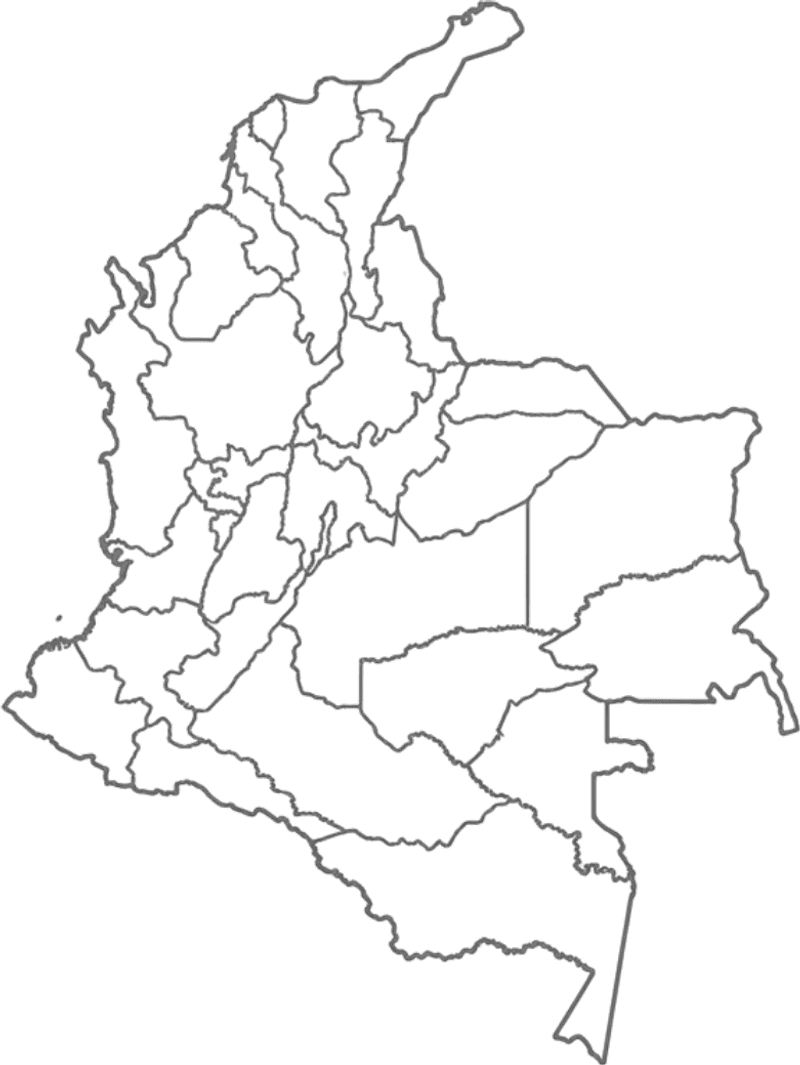
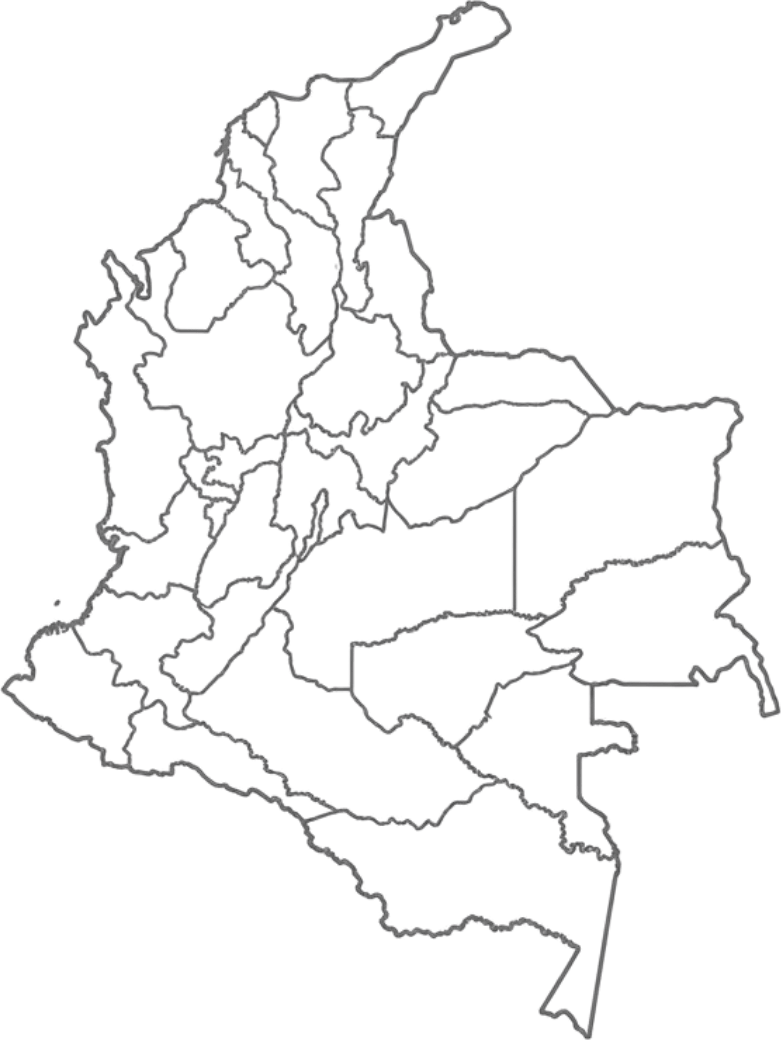
Segundo ajuste de diseño: fondo más pequeño y nítido, textos, KPI y dona
- Mapa de fondo un 30 % más pequeño, en PNG de 64 colores a tamaño nativo.
- Textos nuevos en las tarjetas de vehículos y normativa del inicio.
- «Descargar CSV» sin el conteo de proyectos o líneas.
- Dona de tecnología sin pestañas (potencia [MW]); spec 006 RF-07 y CA-07.1 actualizados.
- KPI: «Proyectos identificados», «Potencia total proyectada», «Capacidad energética
  total proyectada»; tarjetas de «Instalado» en dos columnas.

diff --git a/web/e2e/006-graficas.spec.ts b/web/e2e/006-graficas.spec.ts
@@ -72,7 +72,8 @@ const ESTADO = "Capacidad por estado";
 const EVOL = "Evolución por año de FPO";
 const TEC = "Tecnología";
 const pestana = (page: Page, t: string, nombre: string) => tarjeta(page, t).getByRole("tab", { name: nombre, exact: true });
-const panel = (page: Page, t: string) => tarjeta(page, t).getByRole("tabpanel");
+// La dona de tecnología no tiene pestañas (ajuste del 2026-10-24): su panel no es «tabpanel».
+const panel = (page: Page, t: string) => tarjeta(page, t).locator('[id$="-panel"]');
 const tablaDe = (page: Page, t: string) => panel(page, t).getByRole("table");
 const dibujo = (page: Page, t: string) => panel(page, t).locator("svg").first();
 
@@ -132,9 +133,9 @@ async function kpi(page: Page, nombre: string) {
   return (await page.getByRole("group", { name: nombre, exact: true }).innerText()).replace(/\s+/g, " ").trim();
 }
 async function kpis(page: Page) {
-  const k = await kpi(page, "Proyectos según filtros");
-  const mw = await kpi(page, "Potencia según filtros [MW] (todos los estados)");
-  const mwh = await kpi(page, "Energía según filtros [MWh] (todos los estados)");
+  const k = await kpi(page, "Proyectos identificados");
+  const mw = await kpi(page, "Potencia total proyectada");
+  const mwh = await kpi(page, "Capacidad energética total proyectada");
   const ult = (s: string, re: RegExp) => num((s.match(re) ?? ["0"]).pop()!);
   return {
     proyectos: ult(k, /\d[\d.]*/g),
@@ -251,7 +252,7 @@ test.describe("006 · Gráficas (datos)", () => {
     test.info().annotations.push({ type: "kpi", description: JSON.stringify(k) });
 
     const sumaCol = async (t: string, pest: string) => {
-      await pestana(page, t, pest).click();
+      if (t !== TEC) await pestana(page, t, pest).click(); // la dona no tiene pestañas
       await verTabla(page, t);
       await expect(tablaDe(page, t).getByRole("columnheader", { name: pest })).toBeVisible();
       const { filas } = await leerTabla(page, t);
@@ -260,12 +261,11 @@ test.describe("006 · Gráficas (datos)", () => {
     expect(await sumaCol(ESTADO, "Potencia [MW]"), "barras MW = KPI").toBeCloseTo(k.mw, 1);
     expect(await sumaCol(ESTADO, "Energía [MWh]"), "barras MWh = KPI").toBeCloseTo(k.mwh, 1);
     expect(await sumaCol(TEC, "Potencia [MW]"), "dona MW = KPI").toBeCloseTo(k.mw, 1);
-    expect(await sumaCol(TEC, "Energía [MWh]"), "dona MWh = KPI").toBeCloseTo(k.mwh, 1);
     expect(k.mw).toBeCloseTo(30, 1);
     expect(k.mwh).toBeCloseTo(52, 1);
 
     for (const t of [ESTADO, EVOL, TEC]) {
-      await pestana(page, t, "Potencia [MW]").click();
+      if (t !== TEC) await pestana(page, t, "Potencia [MW]").click();
       await verTabla(page, t);
       const ahora = JSON.stringify(await leerTabla(page, t));
       expect(ahora, `«${t}» cambió con el filtro`).not.toBe(sinFiltro[t]);
@@ -415,27 +415,20 @@ test.describe("006 · Gráficas (datos)", () => {
     await expect(tarjeta(page, EVOL).getByText(/sin año de FPO/)).toHaveCount(0);
   });
 
-  test("E2E-09 · CA-07.1: dona con Li-ion 100 % en cada pestaña; en Proyectos el centro coincide con el KPI", async ({ page }) => {
+  test("E2E-09 · CA-07.1: dona sin pestañas, con Li-ion 100 %; el centro coincide con el KPI de potencia", async ({ page }) => {
     soloEscritorio();
     const ps = await aprobados();
     expect(new Set(ps.map((p) => p.tecnologia))).toEqual(new Set(["Li-ion"]));
     for (const q of ["", qDepto]) {
       await abrirMapa(page, q);
       const k = await kpis(page);
-      const esperadoCentro: Record<string, RegExp> = {
-        "Potencia [MW]": new RegExp(`^${fmt1(k.mw).replace(".", "\\.")} MW$`),
-        "Energía [MWh]": new RegExp(`^${fmt1(k.mwh).replace(".", "\\.")} MWh$`),
-        Proyectos: new RegExp(`^${k.proyectos} proyectos?$`),
-      };
-      for (const pest of ["Potencia [MW]", "Energía [MWh]", "Proyectos"]) {
-        await pestana(page, TEC, pest).click();
-        await expect(pestana(page, TEC, pest)).toHaveAttribute("aria-selected", "true");
-        const leyenda = tarjeta(page, TEC).getByRole("list", { name: "Tecnologías" });
-        await expect(leyenda.getByRole("listitem")).toHaveText([/^Li-ion\s*100 %$/]);
-        const centro = (await panel(page, TEC).getByRole("paragraph").allInnerTexts()).map((s) => s.trim());
-        test.info().annotations.push({ type: `centro${q ? "-depto" : ""}-${pest}`, description: JSON.stringify(centro) });
-        expect(centro.some((c) => esperadoCentro[pest].test(c)), `centro de ${pest}: ${JSON.stringify(centro)}`).toBe(true);
-      }
+      await expect(tarjeta(page, TEC).getByRole("tab")).toHaveCount(0);
+      const leyenda = tarjeta(page, TEC).getByRole("list", { name: "Tecnologías" });
+      await expect(leyenda.getByRole("listitem")).toHaveText([/^Li-ion\s*100 %$/]);
+      const centro = (await panel(page, TEC).getByRole("paragraph").allInnerTexts()).map((s) => s.trim());
+      test.info().annotations.push({ type: `centro${q ? "-depto" : ""}`, description: JSON.stringify(centro) });
+      const esperado = new RegExp(`^${fmt1(k.mw).replace(".", "\\.")} MW$`);
+      expect(centro.some((c) => esperado.test(c)), `centro: ${JSON.stringify(centro)}`).toBe(true);
     }
   });
 
@@ -469,8 +462,7 @@ test.describe("006 · Gráficas (datos)", () => {
       for (const f of filas) for (const v of f.slice(1)) expect(v).toMatch(/^\d{1,3}(\.\d{3})*,\d$/);
     }
     // Tecnología: mismo total que el centro y mismo % que la leyenda.
-    for (const [pest, unidad] of [["Potencia [MW]", "[MW]"], ["Energía [MWh]", "[MWh]"], ["Proyectos", "Proyectos"]] as const) {
-      await pestana(page, TEC, pest).click();
+    for (const [pest, unidad] of [["Potencia [MW]", "[MW]"]] as const) {
       await verGrafica(page, TEC);
       const centro = (await panel(page, TEC).getByRole("paragraph").allInnerTexts()).join(" ");
       const leyenda = await tarjeta(page, TEC).getByRole("list", { name: "Tecnologías" }).getByRole("listitem").allInnerTexts();
@@ -488,7 +480,7 @@ test.describe("006 · Gráficas (datos)", () => {
     soloEscritorio();
     // Meta solo tiene un proyecto Anunciado: Meta + Inactivo no tiene resultados (se aplica por URL).
     await abrirMapa(page, `?departamento=Meta&estado=Inactivo`);
-    await expect.poll(() => kpi(page, "Proyectos según filtros"), { timeout: 15_000 }).toMatch(/(^|\s)0$/);
+    await expect.poll(() => kpi(page, "Proyectos identificados"), { timeout: 15_000 }).toMatch(/(^|\s)0$/);
     for (const t of [ESTADO, EVOL, TEC]) {
       await expect(tarjeta(page, t).getByText("Sin datos para estos filtros", { exact: true }), t).toBeVisible();
       await expect(panel(page, t).locator("svg"), `${t} sin dibujo`).toHaveCount(0);

diff --git a/web/e2e/002-implementacion.spec.ts b/web/e2e/002-implementacion.spec.ts
@@ -688,7 +688,7 @@ test.describe("002 · Implementación en el país (datos)", () => {
     const enMapa = await nombresPuntos(page);
     const enTabla = await nombresFilas(page, ap.map((p) => p.nombre));
     await expect(filas(page)).toHaveCount(esperados.length);
-    const kpi = await textoKpi(page, "Proyectos según filtros");
+    const kpi = await textoKpi(page, "Proyectos identificados");
     const csv = registrosCsv(await descargarCsv(page)).datos.map((r) => r[0]).sort();
     test.info().annotations.push({ type: "comparacion", description: JSON.stringify({ enMapa, enTabla, kpi, csv }) });
     expect(enMapa).toEqual(esperados);
@@ -755,16 +755,16 @@ test.describe("002 · Implementación en el país (datos)", () => {
     await expect(mwhInst).toContainText(`${fmt1(suma(op, "capacidad_maxima_mwh"))} MWh`);
     const antes = [await textoKpi(page, "Potencia instalada [MW]"), await textoKpi(page, "Energía instalada [MWh]")];
     await marcar(page, "Estado", "Anunciado");
-    await expect(page.getByRole("group", { name: "Proyectos según filtros" })).toContainText(String(anun.length));
-    await expect(page.getByRole("group", { name: "Potencia según filtros [MW] (todos los estados)" })).toContainText(`${fmt1(suma(anun, "potencia_nominal_mw"))} MW`);
-    await expect(page.getByRole("group", { name: "Energía según filtros [MWh] (todos los estados)" })).toContainText(`${fmt1(suma(anun, "capacidad_maxima_mwh"))} MWh`);
+    await expect(page.getByRole("group", { name: "Proyectos identificados" })).toContainText(String(anun.length));
+    await expect(page.getByRole("group", { name: "Potencia total proyectada" })).toContainText(`${fmt1(suma(anun, "potencia_nominal_mw"))} MW`);
+    await expect(page.getByRole("group", { name: "Capacidad energética total proyectada" })).toContainText(`${fmt1(suma(anun, "capacidad_maxima_mwh"))} MWh`);
     await expect(page.getByRole("region", { name: "Según filtros (todos los estados)" })).toBeVisible();
     expect([await textoKpi(page, "Potencia instalada [MW]"), await textoKpi(page, "Energía instalada [MWh]")]).toEqual(antes);
     // MW y MWh en tarjetas distintas.
-    for (const g of ["Potencia instalada [MW]", "Potencia según filtros [MW] (todos los estados)"]) {
+    for (const g of ["Potencia instalada [MW]", "Potencia total proyectada"]) {
       expect(await textoKpi(page, g)).not.toMatch(/MWh/);
     }
-    for (const g of ["Energía instalada [MWh]", "Energía según filtros [MWh] (todos los estados)"]) {
+    for (const g of ["Energía instalada [MWh]", "Capacidad energética total proyectada"]) {
       expect(await textoKpi(page, g)).not.toMatch(/MW(?!h)/);
     }
   });
@@ -782,9 +782,9 @@ test.describe("002 · Implementación en el país (datos)", () => {
     await expect(page.getByText("Ningún proyecto cumple estos filtros")).toBeVisible();
     await expect(puntos(page)).toHaveCount(0);
     await expect(filas(page).filter({ hasText: PREFIJO })).toHaveCount(0);
-    expect(await textoKpi(page, "Proyectos según filtros")).toMatch(/text: "?0"?$/);
-    expect(await textoKpi(page, "Potencia según filtros [MW] (todos los estados)")).toMatch(/\b0(,0)? MW\b/);
-    expect(await textoKpi(page, "Energía según filtros [MWh] (todos los estados)")).toMatch(/\b0(,0)? MWh\b/);
+    expect(await textoKpi(page, "Proyectos identificados")).toMatch(/text: "?0"?$/);
+    expect(await textoKpi(page, "Potencia total proyectada")).toMatch(/\b0(,0)? MW\b/);
+    expect(await textoKpi(page, "Capacidad energética total proyectada")).toMatch(/\b0(,0)? MWh\b/);
     // Observación (no bloqueante): ¿se ve el filtro activo «Inactivo»?
     const boton = await botonFiltro(page, "Estado").innerText();
     await abrirFiltro(page, "Estado");

diff --git a/web/src/components/graficas/grafica-tecnologia.tsx b/web/src/components/graficas/grafica-tecnologia.tsx
@@ -1,44 +1,26 @@
-"use client";
-
-// Dona de tecnología (spec 006, RF-07): participación en MW, MWh o número de proyectos. El
-// centro muestra el total de la pestaña activa y la leyenda el porcentaje (aclaración 2).
-import { useState } from "react";
-import { formatoMW, formatoMWh, formatoNumero } from "@/lib/formato";
-import { porTecnologia, type Medida } from "@/lib/graficas-mapa";
+// Dona de tecnología (spec 006, RF-07): participación de cada tecnología en la potencia [MW].
+// Sin pestañas desde el ajuste del 2026-10-24. El centro muestra el total y la leyenda el
+// porcentaje (aclaración 2).
+import { formatoMW, formatoNumero } from "@/lib/formato";
+import { porTecnologia } from "@/lib/graficas-mapa";
 import type { ProyectoMapa } from "@/lib/proyectos-mapa";
 import { cifra } from "./grafica-estados";
 import { Dona } from "./dona";
 import { TarjetaGrafica } from "./tarjeta-grafica";
 
-type IdMedida = Medida | "proyectos";
-const MEDIDAS: { id: IdMedida; texto: string }[] = [
-  { id: "mw", texto: "Potencia [MW]" },
-  { id: "mwh", texto: "Energía [MWh]" },
-  { id: "proyectos", texto: "Proyectos" },
-];
-function total(medida: IdMedida, valor: number) {
-  if (medida === "mw") return formatoMW(valor);
-  if (medida === "mwh") return formatoMWh(valor);
-  return `${valor} ${valor === 1 ? "proyecto" : "proyectos"}`;
-}
-
 export function GraficaTecnologia({ proyectos }: { proyectos: ProyectoMapa[] }) {
-  const [medida, setMedida] = useState<IdMedida>("mw");
-  const { filas, total: suma } = porTecnologia(proyectos, medida);
-  const texto = MEDIDAS.find((m) => m.id === medida)!.texto;
-  const valor = (v: number) => (medida === "proyectos" ? String(v) : cifra(v));
+  const { filas, total } = porTecnologia(proyectos, "mw");
 
   return (
     <TarjetaGrafica
       titulo="Tecnología"
-      pestanas={{ etiqueta: "Medida", opciones: MEDIDAS, activa: medida, onCambiar: (id) => setMedida(id as IdMedida) }}
       tabla={{
-        encabezados: ["Tecnología", texto, "Participación [%]"],
-        filas: filas.map((f) => [f.categoria, valor(f.valor), formatoNumero(f.porcentaje, 1)]),
+        encabezados: ["Tecnología", "Potencia [MW]", "Participación [%]"],
+        filas: filas.map((f) => [f.categoria, cifra(f.valor), formatoNumero(f.porcentaje, 1)]),
       }}
       vacia={!proyectos.length}
     >
-      <Dona filas={filas} centro={total(medida, suma)} etiquetaLista="Tecnologías" />
+      <Dona filas={filas} centro={formatoMW(total)} etiquetaLista="Tecnologías" />
     </TarjetaGrafica>
   );
 }

diff --git a/web/src/components/mapa/kpi-mapa.test.tsx b/web/src/components/mapa/kpi-mapa.test.tsx
@@ -12,15 +12,23 @@ describe("KpiMapa", () => {
     expect(within(instalado).getByRole("group", { name: "Energía instalada [MWh]" })).toHaveTextContent("12,8 MWh");
 
     const filtrado = screen.getByRole("region", { name: "Según filtros (todos los estados)" });
-    expect(within(filtrado).getByRole("group", { name: "Proyectos según filtros" })).toHaveTextContent("2");
-    expect(within(filtrado).getByRole("group", { name: "Potencia según filtros [MW] (todos los estados)" })).toHaveTextContent("100,0 MW");
-    expect(within(filtrado).getByRole("group", { name: "Energía según filtros [MWh] (todos los estados)" })).toHaveTextContent("390,0 MWh");
+    expect(within(filtrado).getByRole("group", { name: "Proyectos identificados" })).toHaveTextContent("2");
+    expect(within(filtrado).getByRole("group", { name: "Potencia total proyectada" })).toHaveTextContent("100,0 MW");
+    expect(within(filtrado).getByRole("group", { name: "Capacidad energética total proyectada" })).toHaveTextContent("390,0 MWh");
+  });
+
+  test("las dos tarjetas de «Instalado» ocupan todo el ancho de su grupo para que quepa el título", () => {
+    render(<KpiMapa kpi={{ instalado: { mw: 17, mwh: 12.8 }, filtrado: { total: 2, mw: 100, mwh: 390 } }} />);
+    const instalado = screen.getByRole("region", { name: "Instalado (en operación)" });
+    const rejilla = within(instalado).getByRole("group", { name: "Potencia instalada [MW]" }).parentElement!;
+    expect(rejilla).toHaveClass("lg:grid-cols-2");
+    expect(rejilla).not.toHaveClass("lg:grid-cols-3");
   });
 
   test("con un resultado vacío los KPI filtrados muestran 0 (CA-12.1)", () => {
     render(<KpiMapa kpi={{ instalado: { mw: 17, mwh: 12.8 }, filtrado: { total: 0, mw: 0, mwh: 0 } }} />);
     const filtrado = screen.getByRole("region", { name: "Según filtros (todos los estados)" });
-    expect(within(filtrado).getByRole("group", { name: "Proyectos según filtros" })).toHaveTextContent("0");
+    expect(within(filtrado).getByRole("group", { name: "Proyectos identificados" })).toHaveTextContent("0");
     expect(within(filtrado).getByRole("group", { name: /Potencia/ })).toHaveTextContent("0,0 MW");
   });
 });

diff --git a/web/src/components/mapa/kpi-mapa.tsx b/web/src/components/mapa/kpi-mapa.tsx
@@ -6,11 +6,12 @@ import type { kpiSeccion } from "@/lib/proyectos-mapa";
 
 type Kpi = ReturnType<typeof kpiSeccion>;
 
-function Grupo({ titulo, children }: { titulo: string; children: React.ReactNode }) {
+// «Instalado» tiene dos tarjetas: van en dos columnas para que quepa el título (ajuste del 2026-10-24).
+function Grupo({ titulo, columnas = "lg:grid-cols-3", children }: { titulo: string; columnas?: string; children: React.ReactNode }) {
   return (
     <section aria-label={titulo} className="grid gap-2">
       <h2 className="text-sm font-bold text-[var(--text-heading)]">{titulo}</h2>
-      <div className="grid gap-3 sm:grid-cols-2 lg:grid-cols-3">{children}</div>
+      <div className={`grid gap-3 sm:grid-cols-2 ${columnas}`}>{children}</div>
     </section>
   );
 }
@@ -18,7 +19,7 @@ function Grupo({ titulo, children }: { titulo: string; children: React.ReactNode
 export function KpiMapa({ kpi }: { kpi: Kpi }) {
   return (
     <div className="grid gap-5 lg:grid-cols-[2fr_3fr]">
-      <Grupo titulo="Instalado (en operación)">
+      <Grupo titulo="Instalado (en operación)" columnas="lg:grid-cols-2">
         <KpiTarjeta etiqueta="Potencia instalada [MW]">
           <KpiValor valor={kpi.instalado.mw} unidad="MW" />
         </KpiTarjeta>
@@ -27,13 +28,13 @@ export function KpiMapa({ kpi }: { kpi: Kpi }) {
         </KpiTarjeta>
       </Grupo>
       <Grupo titulo="Según filtros (todos los estados)">
-        <KpiTarjeta etiqueta="Proyectos según filtros">
+        <KpiTarjeta etiqueta="Proyectos identificados">
           <KpiValor valor={kpi.filtrado.total} unidad={null} />
         </KpiTarjeta>
-        <KpiTarjeta etiqueta="Potencia según filtros [MW] (todos los estados)">
+        <KpiTarjeta etiqueta="Potencia total proyectada">
           <KpiValor valor={kpi.filtrado.mw} unidad="MW" />
         </KpiTarjeta>
-        <KpiTarjeta etiqueta="Energía según filtros [MWh] (todos los estados)">
+        <KpiTarjeta etiqueta="Capacidad energética total proyectada">
           <KpiValor valor={kpi.filtrado.mwh} unidad="MWh" />
         </KpiTarjeta>
       </Grupo>

diff --git a/web/src/components/mapa/vista-mapa.test.tsx b/web/src/components/mapa/vista-mapa.test.tsx
@@ -38,7 +38,7 @@ const filasDeTabla = () =>
 const puntos = () => within(screen.getByRole("list", { name: "Puntos del mapa" })).queryAllByRole("listitem").map((l) => l.textContent);
 // T23: las casillas de cada filtro están dentro de su desplegable.
 const abrirFiltro = (titulo: string) => fireEvent.click(screen.getByRole("button", { name: new RegExp(`^${titulo} `) }));
-const proyectosFiltrados = () => screen.getByRole("group", { name: "Proyectos según filtros" }).textContent;
+const proyectosFiltrados = () => screen.getByRole("group", { name: "Proyectos identificados" }).textContent;
 
 beforeEach(() => window.history.replaceState(null, "", "/mapa"));
 afterEach(() => vi.restoreAllMocks());
@@ -86,7 +86,7 @@ describe("VistaMapa", () => {
     render(<VistaMapa filas={filas} />);
     abrirFiltro("Departamento");
     fireEvent.click(screen.getByRole("checkbox", { name: "Sucre (1)" }));
-    fireEvent.click(screen.getByRole("button", { name: /Descargar CSV/ }));
+    fireEvent.click(screen.getByRole("button", { name: "Descargar CSV" }));
 
     const texto = await blob!.text();
     const lineas = texto.replace(/^/, "").trim().split(/\r\n/);
@@ -122,7 +122,7 @@ describe("VistaMapa", () => {
     abrirFiltro("Departamento");
     fireEvent.click(screen.getByRole("checkbox", { name: "Sucre (1)" }));
     fireEvent.keyDown(document.body, { key: "Escape" });
-    const kpiMw = screen.getByRole("group", { name: "Potencia según filtros [MW] (todos los estados)" });
+    const kpiMw = screen.getByRole("group", { name: "Potencia total proyectada" });
     expect(kpiMw).toHaveTextContent("50,0 MW");
     const graficas = screen.getByRole("region", { name: "Gráficas" });
     const estados = within(graficas).getByRole("region", { name: "Capacidad por estado" });

diff --git a/web/src/components/graficas/grafica-tecnologia.test.tsx b/web/src/components/graficas/grafica-tecnologia.test.tsx
@@ -20,14 +20,10 @@ const proyectos = [
 beforeEach(() => preferirMovimientoReducido(true));
 
 describe("GraficaTecnologia", () => {
-  test("pestañas MW, MWh y Proyectos; el centro muestra el total de la pestaña activa", () => {
+  test("sin pestañas: muestra la potencia y el centro lleva el total en MW (ajuste del 2026-10-24)", () => {
     render(<GraficaTecnologia proyectos={proyectos} />);
-    expect(screen.getAllByRole("tab").map((t) => t.textContent)).toEqual(["Potencia [MW]", "Energía [MWh]", "Proyectos"]);
+    expect(screen.queryAllByRole("tab")).toHaveLength(0);
     expect(screen.getByTestId("total-dona")).toHaveTextContent("185,2 MW");
-    fireEvent.click(screen.getByRole("tab", { name: "Energía [MWh]" }));
-    expect(screen.getByTestId("total-dona")).toHaveTextContent("472,8 MWh");
-    fireEvent.click(screen.getByRole("tab", { name: "Proyectos" }));
-    expect(screen.getByTestId("total-dona")).toHaveTextContent("2 proyectos");
   });
 
   test("la leyenda trae cada tecnología con su porcentaje en texto (CA-07.1)", () => {
@@ -40,11 +36,5 @@ describe("GraficaTecnologia", () => {
     fireEvent.click(screen.getByRole("button", { name: "Ver como tabla" }));
     expect(screen.getAllByRole("columnheader").map((h) => h.textContent)).toEqual(["Tecnología", "Potencia [MW]", "Participación [%]"]);
     expect(screen.getAllByRole("row")[1]).toHaveTextContent("Li-ion185,2100,0");
-  });
-
-  test("un proyecto en singular", () => {
-    render(<GraficaTecnologia proyectos={proyectos.slice(0, 1)} />);
-    fireEvent.click(screen.getByRole("tab", { name: "Proyectos" }));
-    expect(screen.getByTestId("total-dona")).toHaveTextContent("1 proyecto");
   });
 });

diff --git a/web/src/components/fondo-mapa.tsx b/web/src/components/fondo-mapa.tsx
@@ -1,12 +1,13 @@
 // Mapa de Colombia como fondo tenue de todas las páginas (ajuste de diseño del usuario,
-// 2026-10-23). Imagen del usuario, de uso libre y sin créditos, optimizada a PNG de 8 colores
-// (public/fondo-colombia.png, 47 KB). Es solo decoración: no recibe clics, los lectores de
+// 2026-10-23). Imagen del usuario, de uso libre y sin créditos, recortada a su tamaño nativo
+// (781 × 1040 px) en PNG de 64 colores (public/fondo-colombia.png, 100 KB). El 2026-10-24 se
+// redujo un 30 % y se subió la calidad a pedido del usuario. Es solo decoración: no recibe clics, los lectores de
 // pantalla lo ignoran y queda detrás del contenido.
 export function FondoMapa() {
   return (
     <div
       aria-hidden="true"
-      className="pointer-events-none fixed inset-0 -z-10 bg-no-repeat bg-[position:right_4%_center] bg-[length:min(70vw,620px)_auto] print:hidden max-sm:bg-[position:center_70%]"
+      className="pointer-events-none fixed inset-0 -z-10 bg-no-repeat bg-[position:right_4%_center] bg-[length:min(49vw,434px)_auto] print:hidden max-sm:bg-[position:center_70%]"
       style={{ backgroundImage: 'url("/fondo-colombia.png")', opacity: 0.12 }}
     />
   );

diff --git a/web/src/components/inicio.tsx b/web/src/components/inicio.tsx
@@ -8,8 +8,8 @@ import { TEXTOS } from "@/lib/textos";
 
 export const SECCIONES = [
   { ruta: "/mapa", titulo: TEXTOS.mapa.titulo, texto: "Mapa e inventario de los SAEB en Colombia." },
-  { ruta: "/vehiculos", titulo: TEXTOS.vehiculos.titulo, texto: "Almacenamiento en la flota eléctrica." },
-  { ruta: "/normativa", titulo: TEXTOS.normativa.titulo, texto: "CREG, MME y CNO, condensado y explicado." },
+  { ruta: "/vehiculos", titulo: TEXTOS.vehiculos.titulo, texto: "Tecnologías y oportunidades de almacenamiento energético en la movilidad eléctrica" },
+  { ruta: "/normativa", titulo: TEXTOS.normativa.titulo, texto: "Consulta el marco regulatorio de los SAEB en Colombia" },
   { ruta: "/noticias", titulo: TEXTOS.noticias.titulo, texto: "Novedades relevantes del almacenamiento." },
 ];
 

diff --git a/web/src/components/inicio.test.tsx b/web/src/components/inicio.test.tsx
@@ -45,6 +45,16 @@ describe("inicio", () => {
     }
   });
 
+  test("las tarjetas de vehículos y normativa llevan su texto (ajuste del 2026-10-24)", () => {
+    render(<Inicio panelKpi={<PanelKpi kpi={kpi} />} />);
+    expect(screen.getByRole("link", { name: /vehículos eléctricos/ })).toHaveTextContent(
+      "Tecnologías y oportunidades de almacenamiento energético en la movilidad eléctrica",
+    );
+    expect(screen.getByRole("link", { name: /Evolución normativa/ })).toHaveTextContent(
+      "Consulta el marco regulatorio de los SAEB en Colombia",
+    );
+  });
+
   test("invita a aportar datos", () => {
     render(<Inicio panelKpi={<PanelKpi kpi={kpi} />} />);
     expect(screen.getByRole("link", { name: /aportar/i })).toHaveAttribute("href", "/aportar");

diff --git a/web/src/components/vehiculos/vista-vehiculos.test.tsx b/web/src/components/vehiculos/vista-vehiculos.test.tsx
@@ -75,7 +75,7 @@ describe("VistaVehiculos", () => {
     vi.spyOn(HTMLAnchorElement.prototype, "click").mockImplementation(() => {});
     window.history.replaceState(null, "", "/vehiculos?marca=Byd");
     render(<VistaVehiculos lineas={lineas} ventas={ventas} importacion={importacion} />);
-    fireEvent.click(screen.getByRole("button", { name: /Descargar CSV/ }));
+    fireEvent.click(screen.getByRole("button", { name: "Descargar CSV" }));
     const lineasCsv = (await blob!.text()).replace(/^/, "").trim().split(/\r\n/);
     expect(lineasCsv[0]).toBe(LICENCIA);
     expect(lineasCsv[1]).toBe("# Fuentes: ANDEMOS, RUNT y cálculos propios del Observatorio · Última actualización: 22/10/2026 · Ventas hasta el 17/09/2026");

diff --git a/web/e2e/003-vehiculos.spec.ts b/web/e2e/003-vehiculos.spec.ts
@@ -458,7 +458,7 @@ test.describe("003 · Vehículos (filtros)", () => {
     await abrir(page);
     await elegir(page, "Marca", "Byd");
     const byd = LINEAS.filter((l) => l.marca === "Byd");
-    await expect(page.getByRole("button", { name: /^Descargar CSV/ })).toHaveAccessibleName(new RegExp(`\\(${byd.length} líneas?\\)`));
+    await expect(page.getByRole("button", { name: /^Descargar CSV/ })).toHaveAccessibleName("Descargar CSV");
     const [descarga] = await Promise.all([page.waitForEvent("download"), page.getByRole("button", { name: /^Descargar CSV/ }).click()]);
     const ruta = path.join(test.info().outputDir, descarga.suggestedFilename());
     await descarga.saveAs(ruta);
